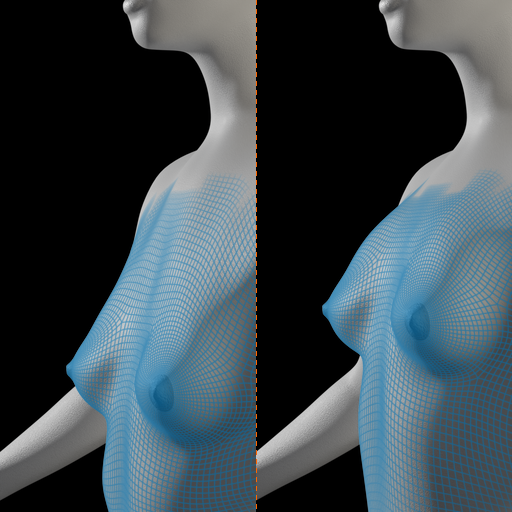
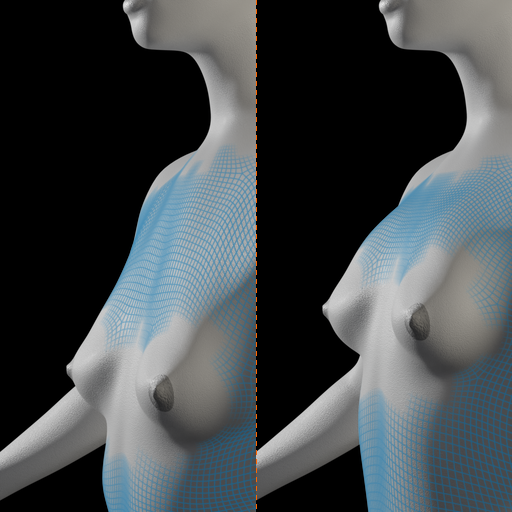
Breast trans: blue only where the mesh stretches (--region-edge-strain), the breast itself only moves

diff --git a/bin/rendertargetthumbs.py b/bin/rendertargetthumbs.py
@@ -956,7 +956,7 @@ def rendre_fil_xray(proxy, deplaces, scene, chemin, epaisseur=0.0006,
 
 
 def rendre_region(corps, offsets, scene, chemin, plancher=NOISE_FLOOR,
-                  gradue=False, deformation=False):
+                  gradue=False, deformation=False, arete=False):
     """Une passe où la zone que la cible déplace est blanche, le reste noir.
 
     ⭐ La troisième source de contour, et la seule qui marche sous n'importe
@@ -989,6 +989,25 @@ def rendre_region(corps, offsets, scene, chemin, plancher=NOISE_FLOOR,
             med[k] = sorted(v[k] for v in vals)[len(vals) // 2]
         offsets = {i: (d if d.length <= (d - med).length else d - med)
                    for i, d in offsets.items()}
+    if arete and offsets:
+        # --region-edge-strain (28-10-2026) : la mediane de --region-strain
+        # suppose UN bloc qui glisse. Une cible asym deplace deux bras en sens
+        # contraires, la mediane tombe a zero et tout reste peint. Ici chaque
+        # sommet prend le plus grand ecart de deplacement avec ses voisins :
+        # nul sur tout ce qui bouge d'un bloc, quel que soit le nombre de
+        # blocs, maximal la ou les mailles s'etirent les unes par rapport aux
+        # autres.
+        nul = mathutils.Vector((0.0, 0.0, 0.0))
+        local = {}
+        for e in maillage.edges:
+            i, j = e.vertices
+            if i not in offsets and j not in offsets:
+                continue
+            ecart = (offsets.get(i, nul) - offsets.get(j, nul)).length
+            for k in (i, j):
+                if ecart > local.get(k, -1.0):
+                    local[k] = ecart
+        offsets = {i: mathutils.Vector((v, 0.0, 0.0)) for i, v in local.items()}
     plus_grand = max((d.length for d in offsets.values()), default=0.0)
     for indice in range(len(maillage.vertices)):
         ecart = offsets.get(indice)
@@ -1519,6 +1538,11 @@ def main():
                    dest="region_deformation",
                    help="avec --region, ne peindre que ce qui se deforme, pas "
                         "ce qui glisse d'un bloc (cibles trans)")
+    a.add_argument("--region-edge-strain", action="store_true",
+                   dest="region_arete",
+                   help="avec --region, peindre l etirement entre sommets "
+                        "voisins : nul sur tout bloc qui glisse, meme a deux "
+                        "blocs (asym du tronc)")
     a.add_argument("--wire", action="store_true", dest="fil",
                    help="rendre en plus une passe du maillage seul, blanc sur "
                         "noir, pour montrer comment la zone se deforme")
@@ -1877,7 +1901,8 @@ def main():
                               os.path.join(o.out,
                                            nom + suffixe + "-region.png"),
                               gradue=o.region_graduee,
-                              deformation=o.region_deformation)
+                              deformation=o.region_deformation,
+                              arete=o.region_arete)
             corps.shape_key_remove(cle)
 
         journal[nom] = {

diff --git a/bin/asymthumbs-v8.py b/bin/asymthumbs-v8.py
@@ -144,7 +144,7 @@ def rendre(curseur, largeur, visee, dossier):
            f"--wire --wire-thickness {FIL * 0.00016 * largeur / 0.048:.6f} "
            f"--lights '{LUM}' --world 0.55 "
            f"--skin-tune 'colorMixIn=0.68,colorMixInStrength=0.7' "
-           f"--amounts {amplitude} --out {dossier}")
+           f"--amounts {amplitude} {os.environ.get('EXTRA', '')} --out {dossier}")
     sh(cmd)
     # Le corps porteur est l'image DEFORMEE, pas le neutre `-before`. Son nom
     # porte l'amplitude, sauf a 1.0 ou le moteur n'ajoute aucun suffixe.
